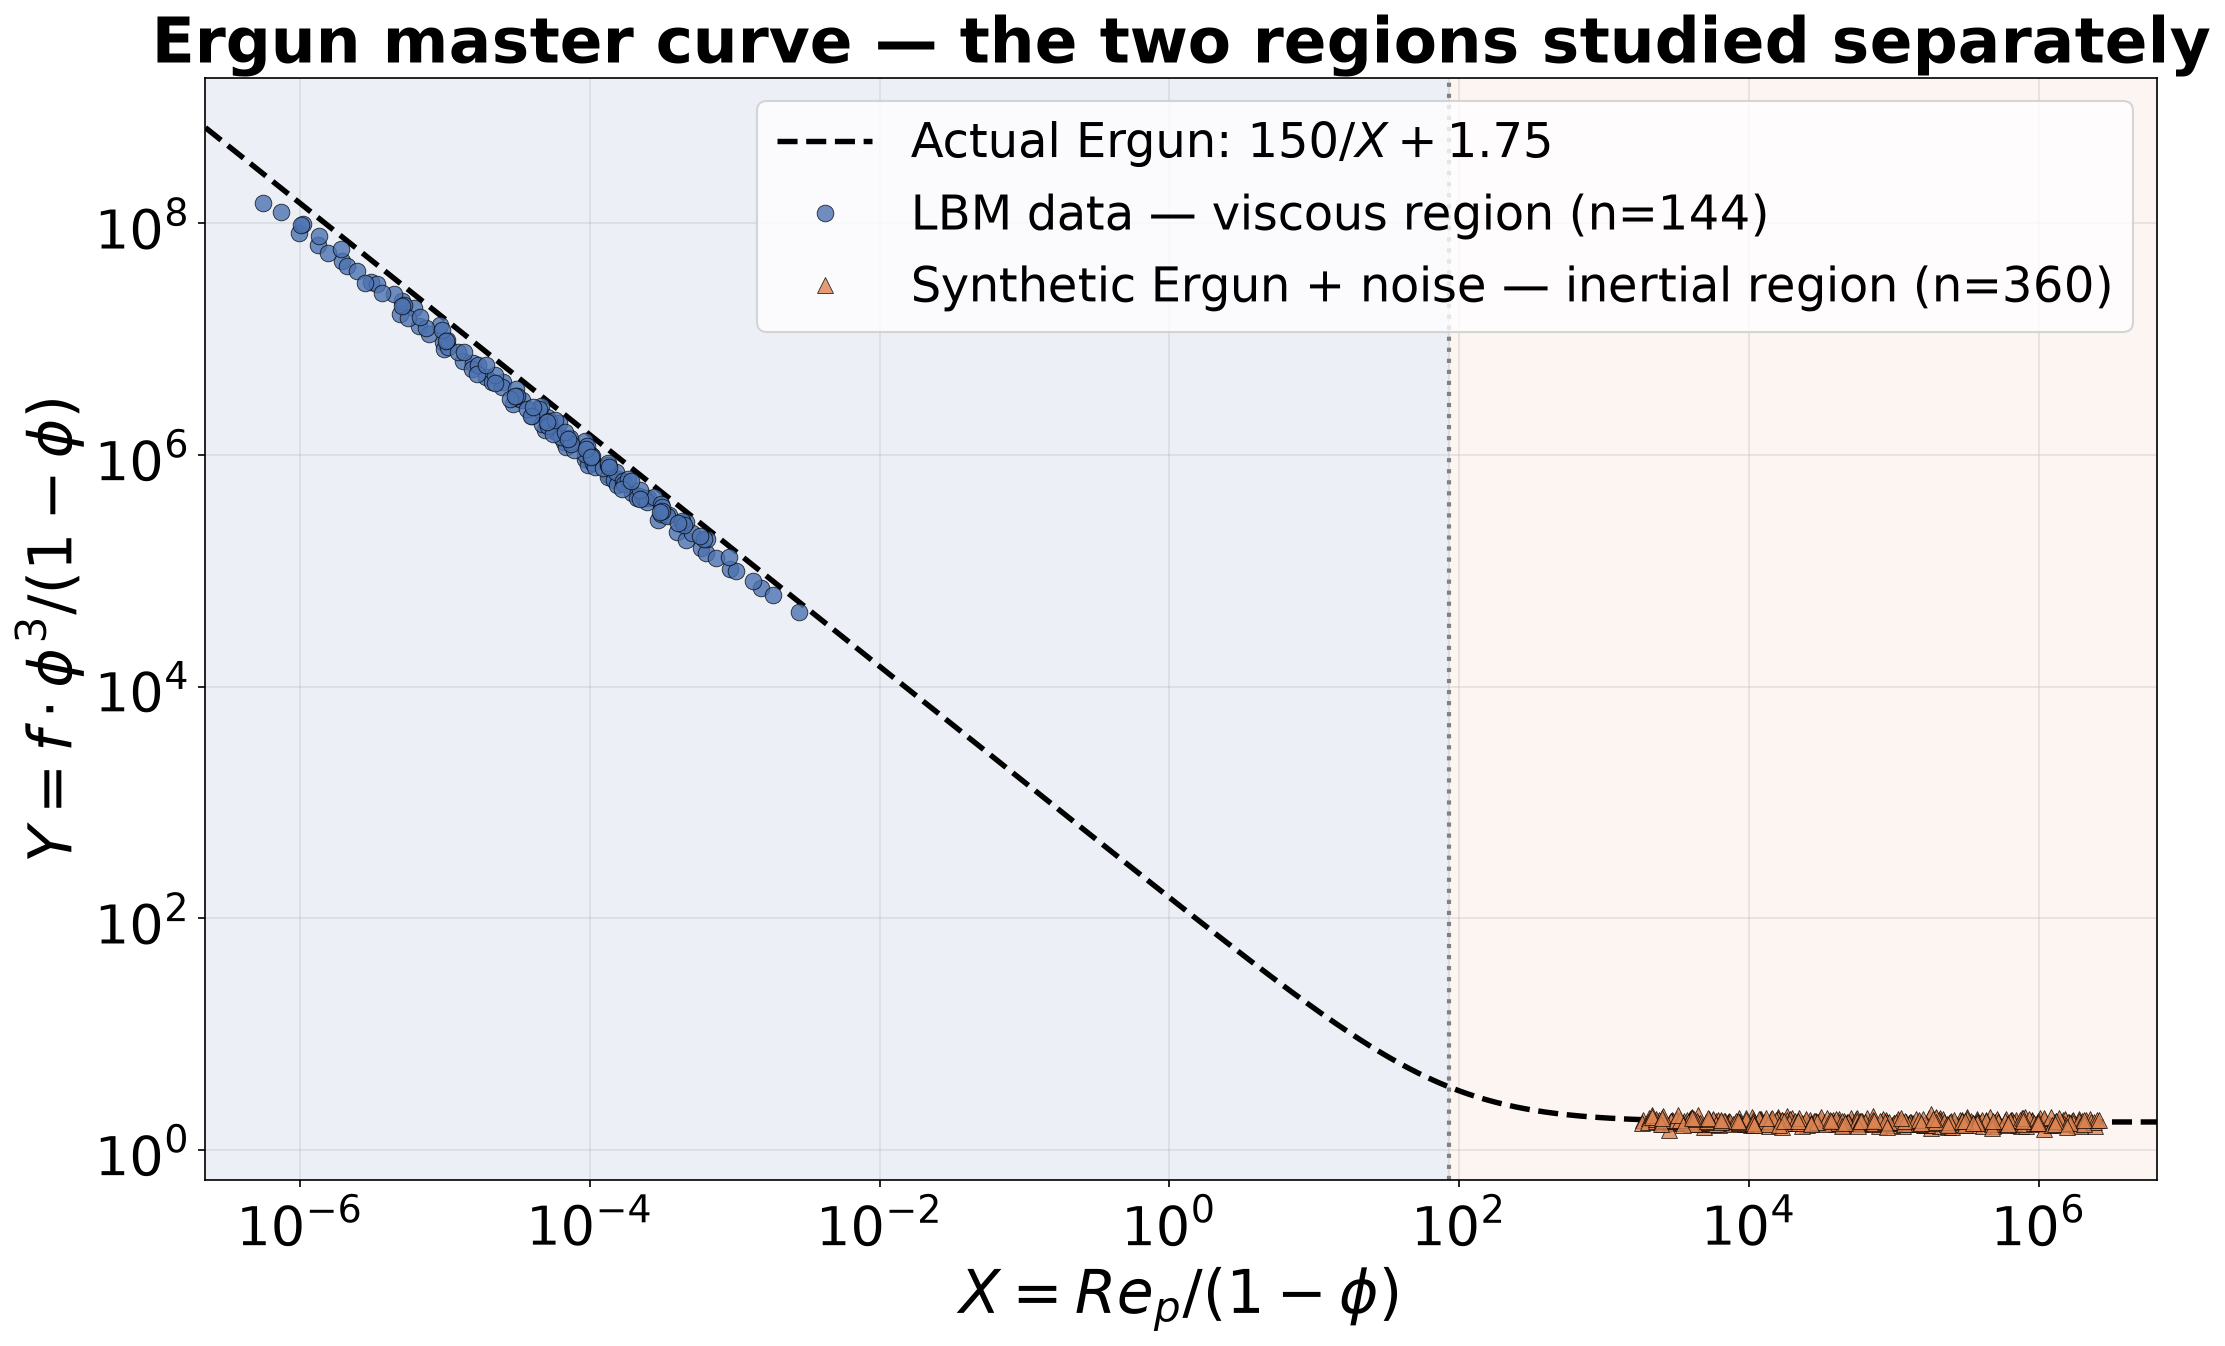
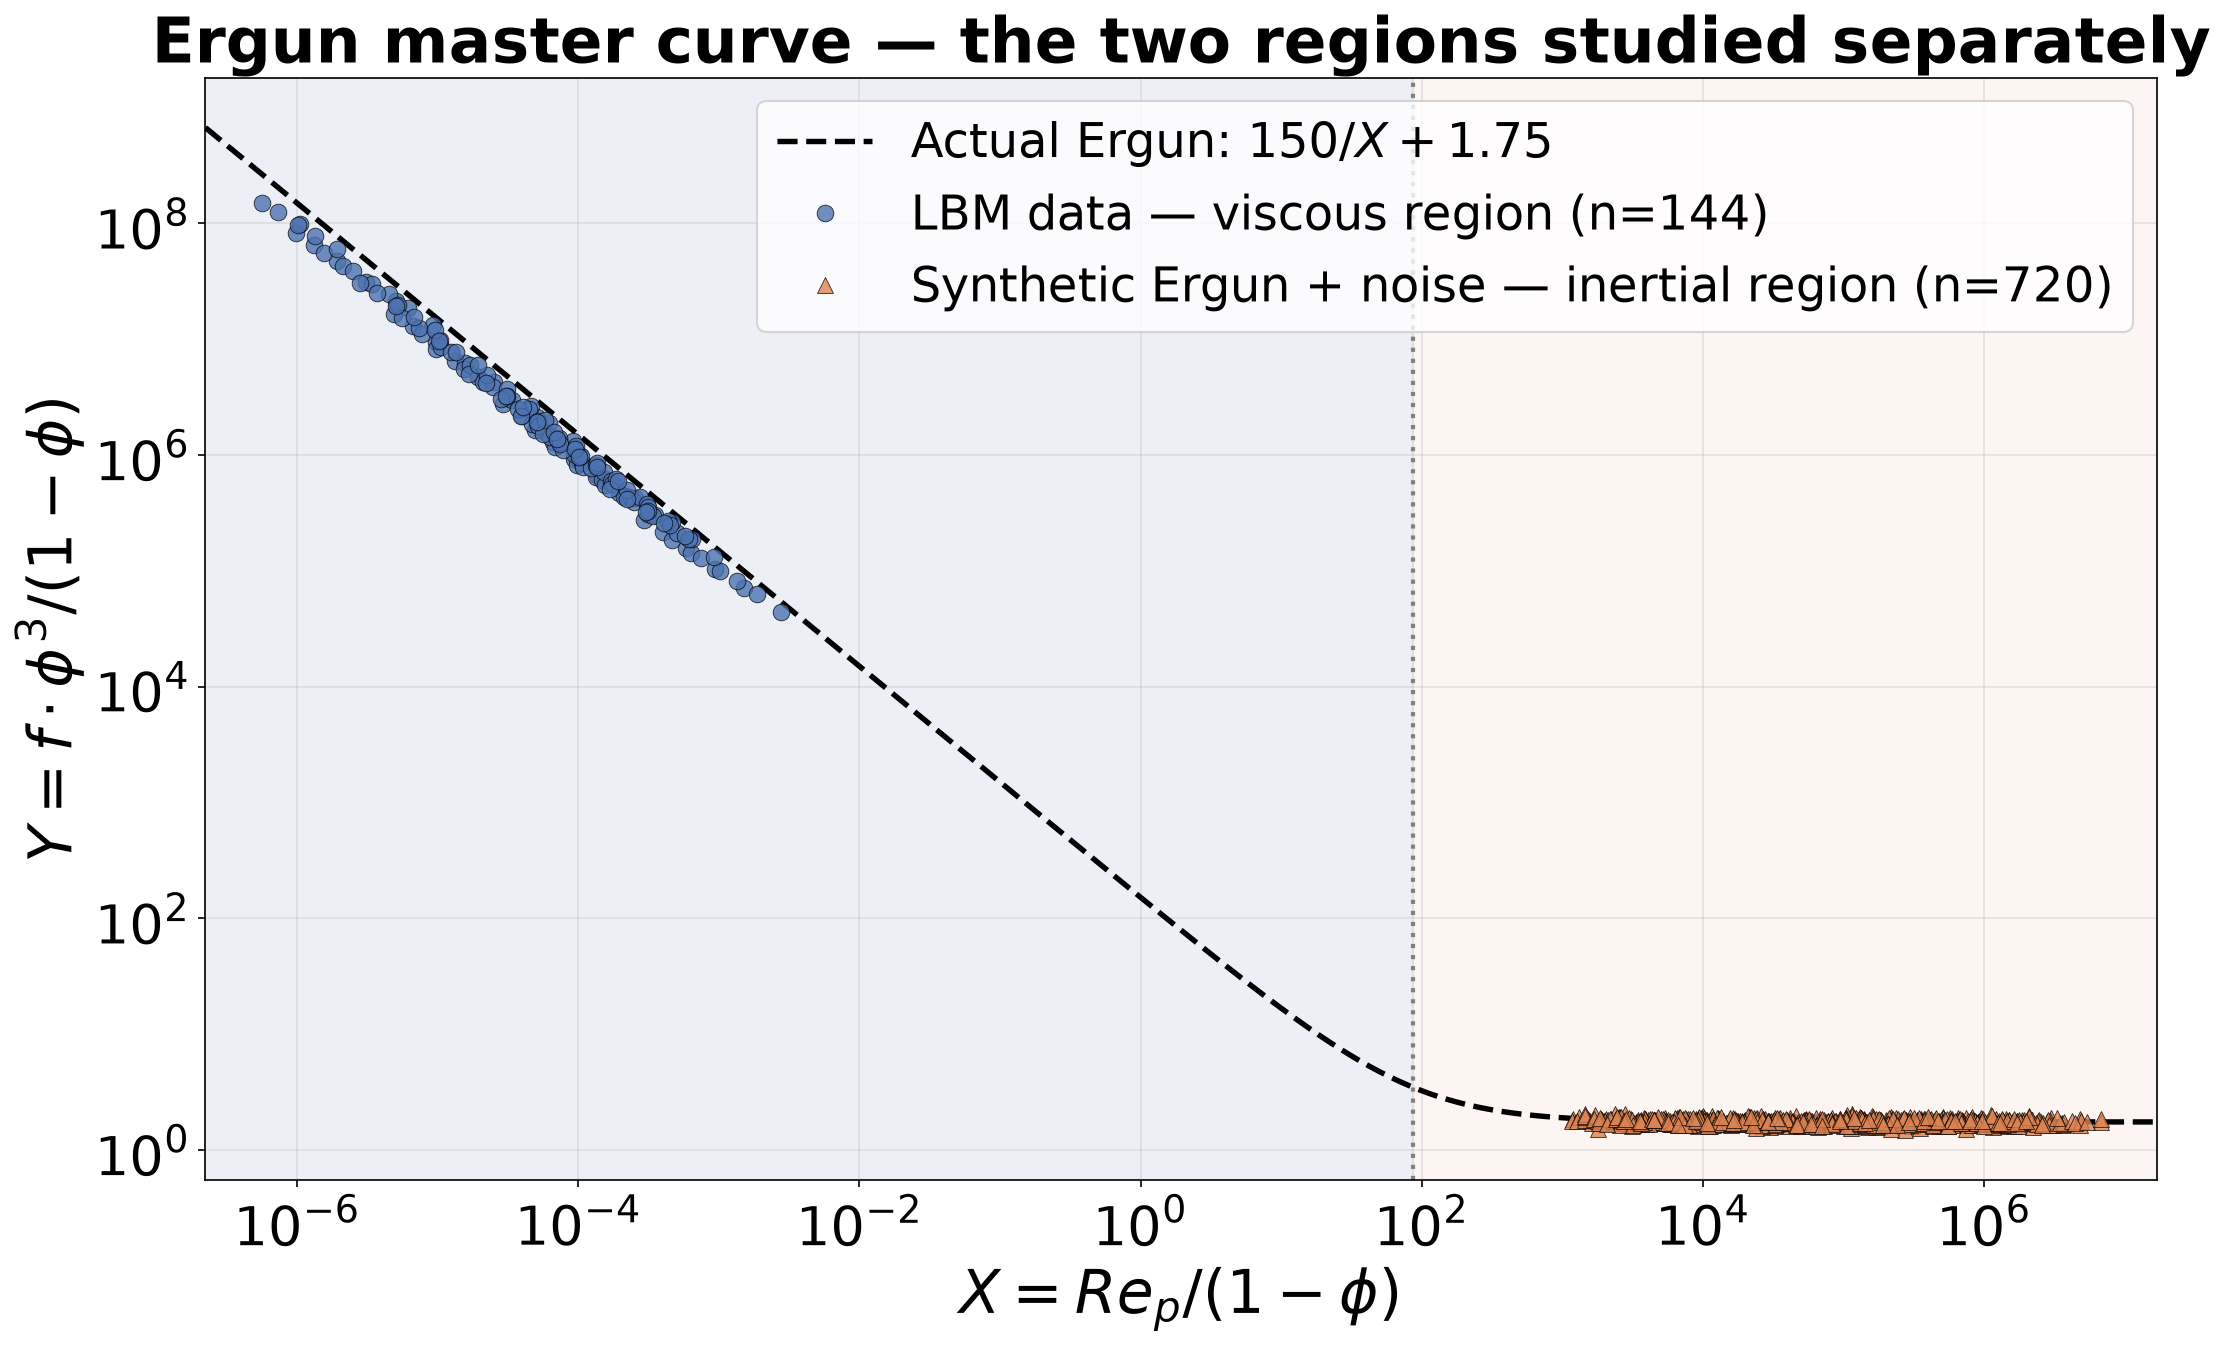
Redraw the two-regions figure with the wide-phi inertial points
Point plot_two_regions.py at dataset_ergun_inertial_widephi.csv so the
inertial cloud on the master curve now shows the 720-row wide-porosity
sweep (phi in [0.15, 0.85]) instead of the 360-row narrow one.

Claude-Session: https://claude.ai/code/session_018YUJztkFQ5JzrFDPi1aDaP

diff --git a/projects/20260912_Stage1_Prokash/Examples/porous_media_lbm_symmetry/plot_two_regions.py b/projects/20260912_Stage1_Prokash/Examples/porous_media_lbm_symmetry/plot_two_regions.py
@@ -52,7 +52,7 @@ def load(name):
 
 def main():
     Xv, Yv, phiv = load("dataset_lbm_porous.csv")
-    Xi, Yi, phii = load("dataset_ergun_inertial.csv")
+    Xi, Yi, phii = load("dataset_ergun_inertial_widephi.csv")
 
     fig, ax = plt.subplots(figsize=(15, 9.5))
 
